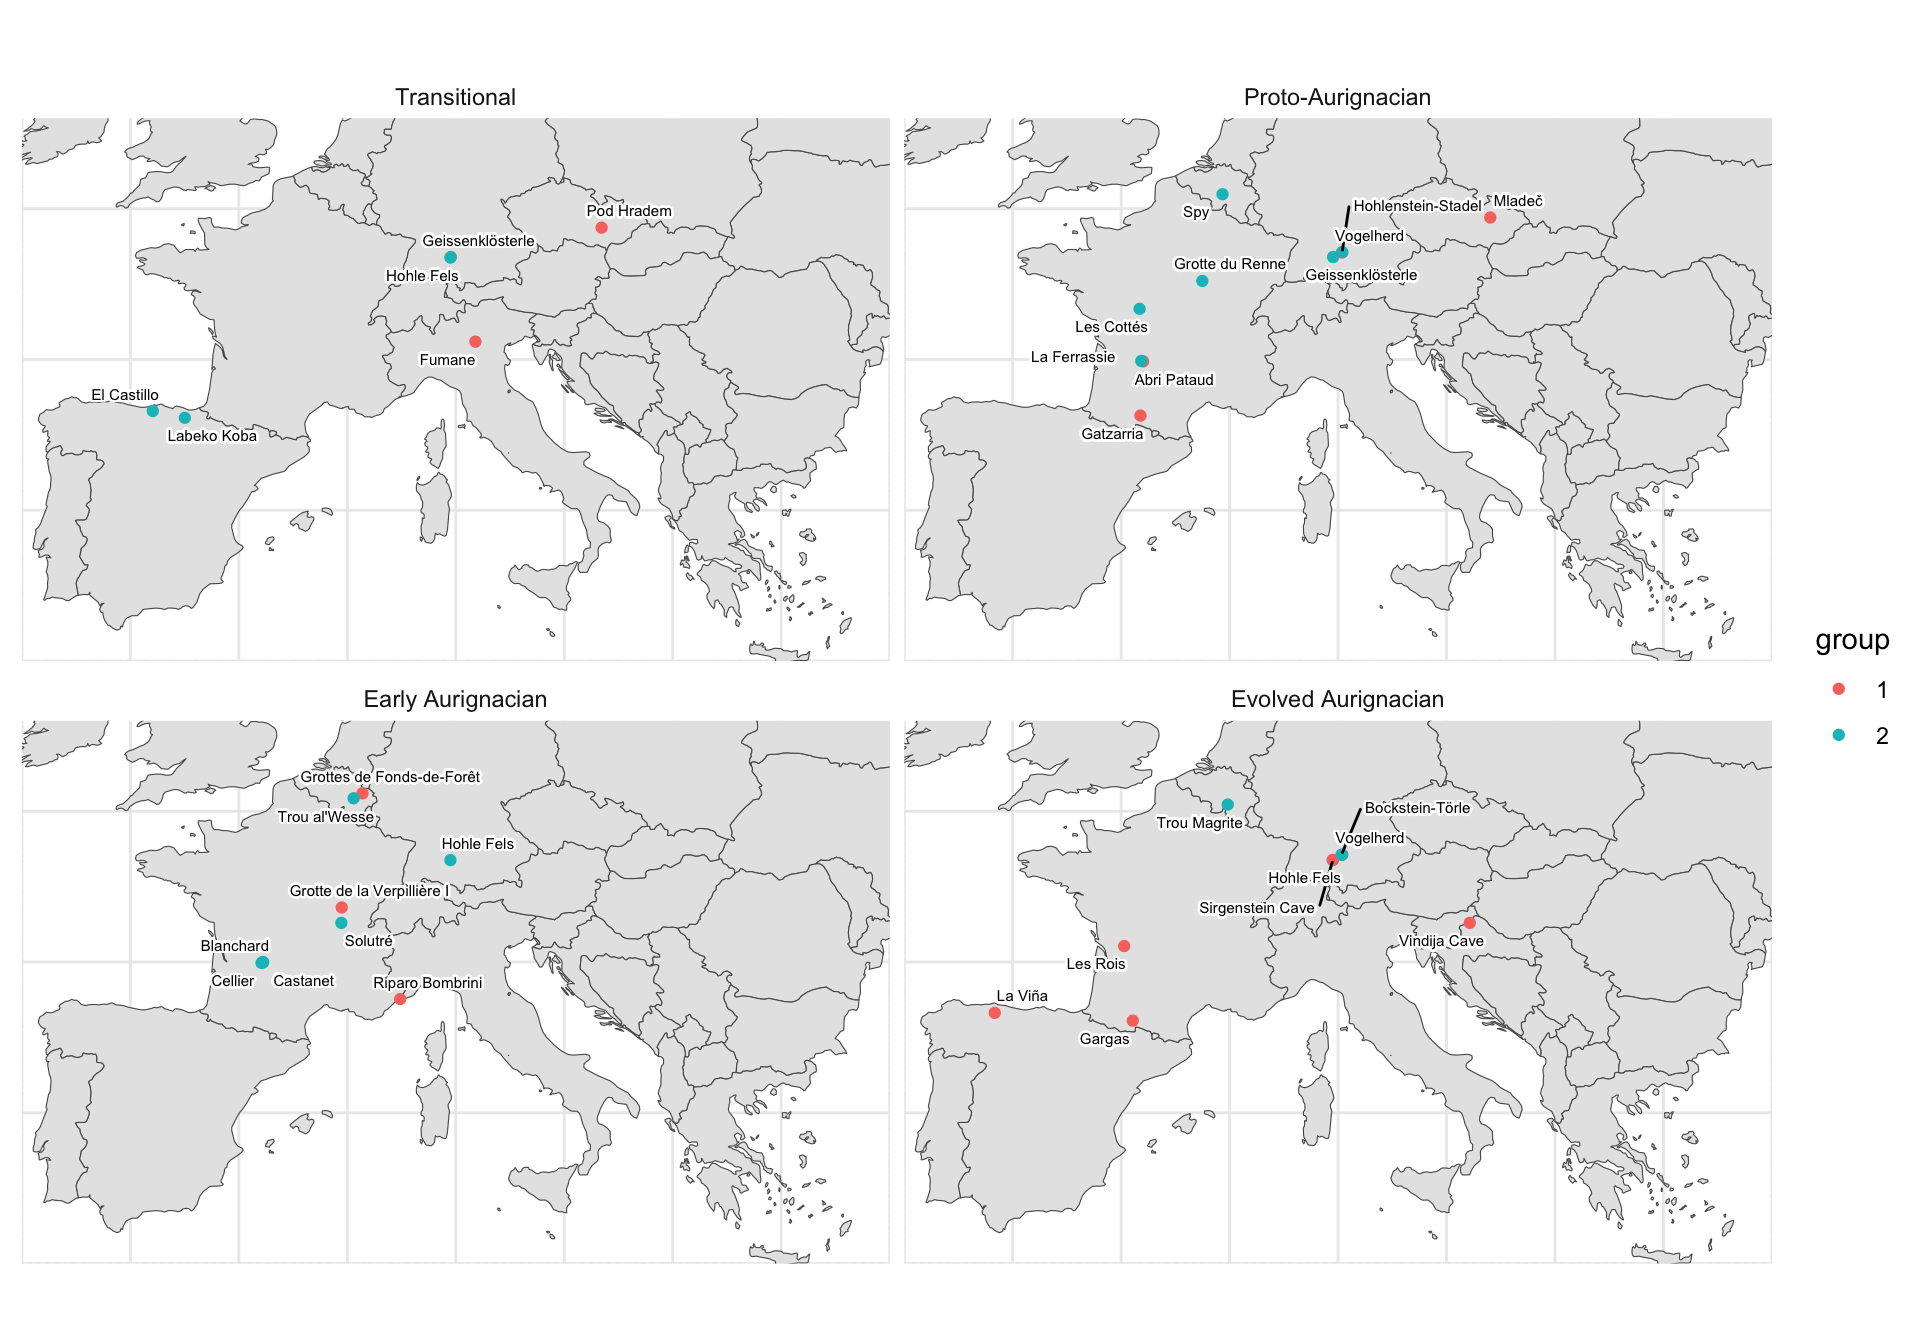
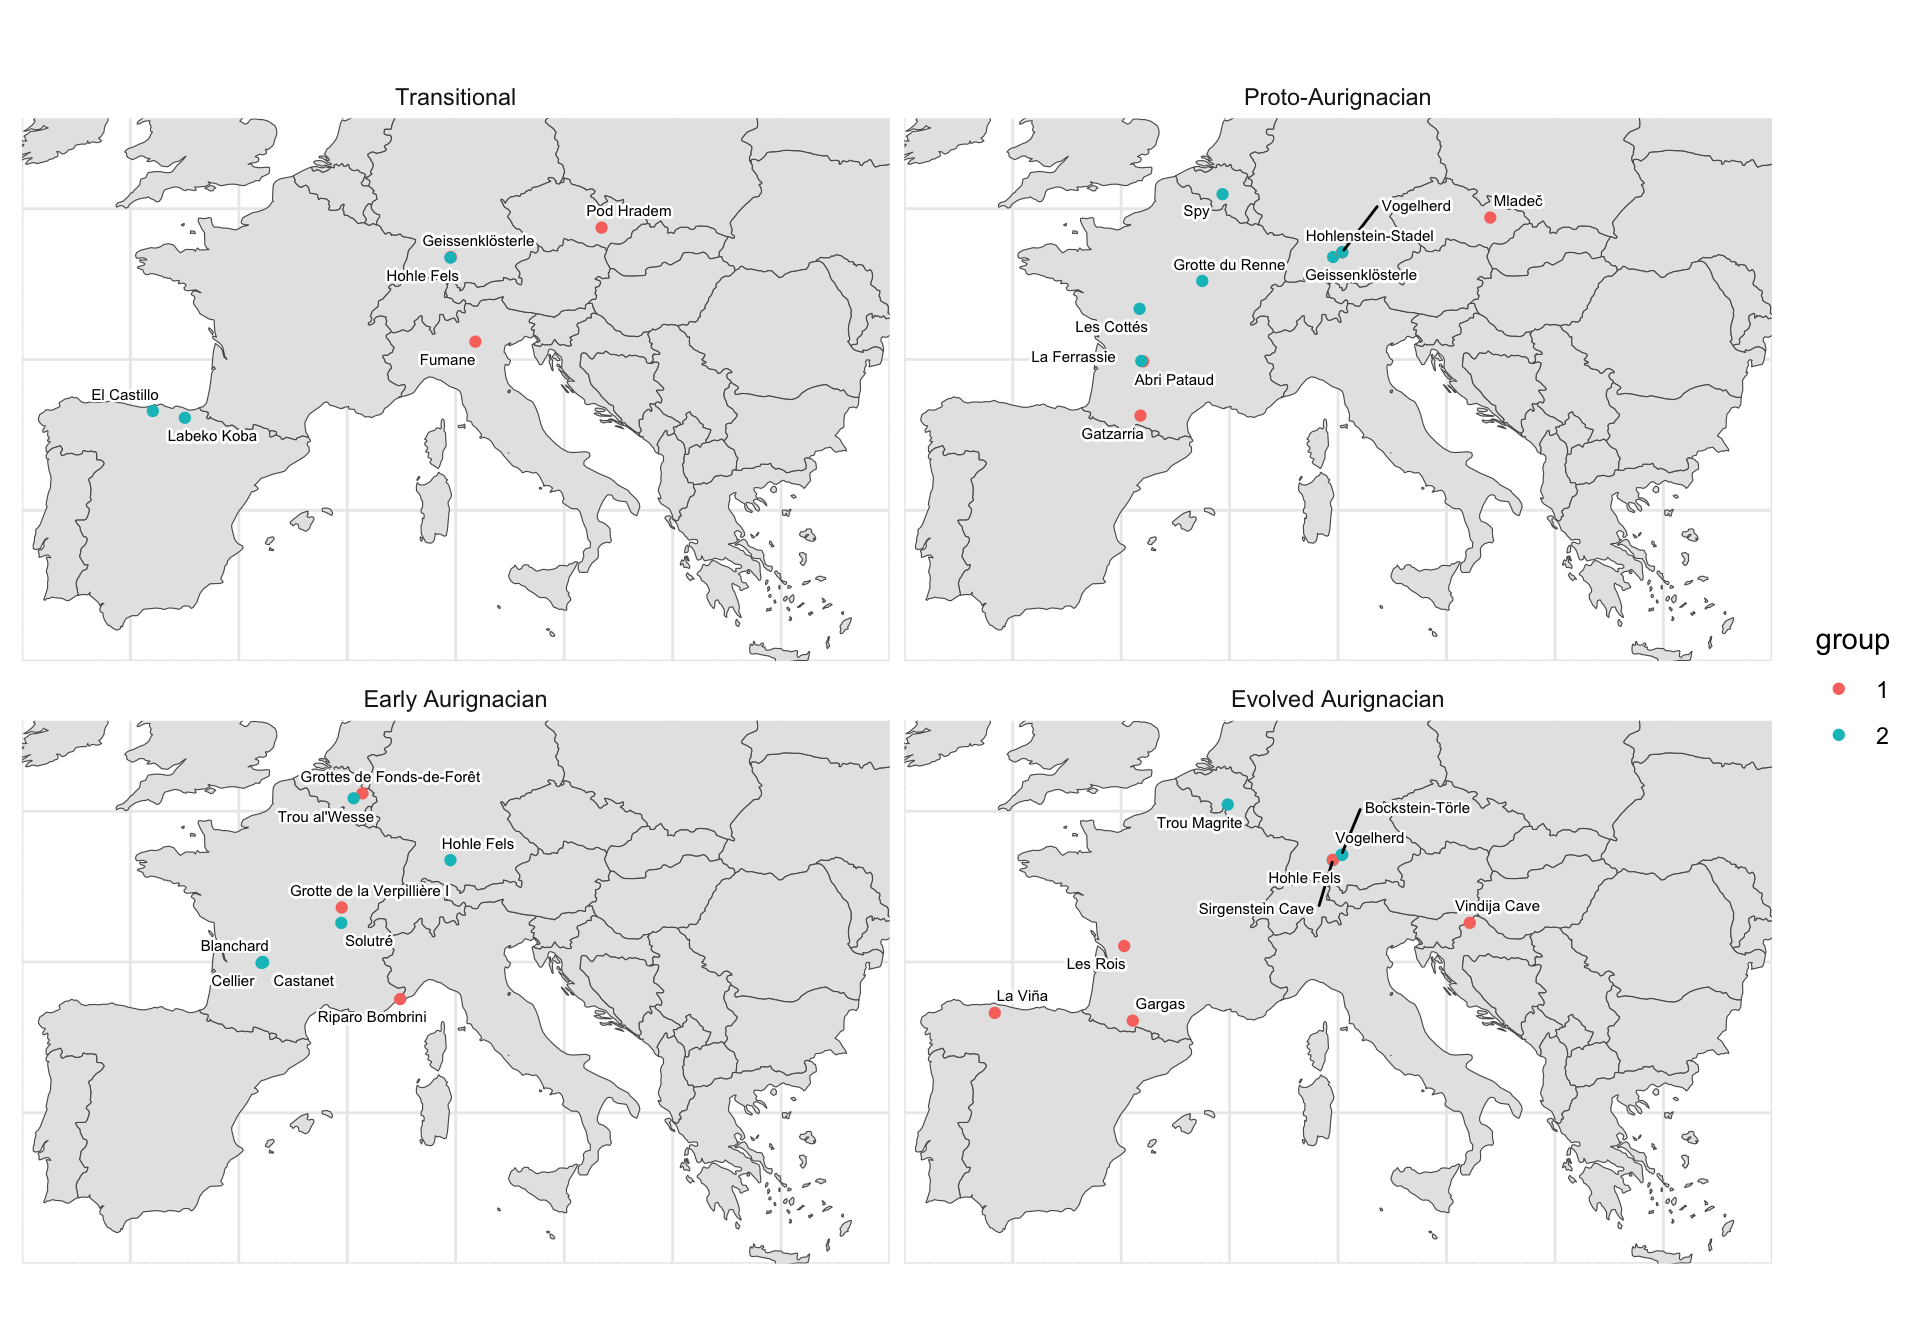
editing up to results: Cultural Group Strength

diff --git a/endofquarterpaper.html b/endofquarterpaper.html
@@ -221,91 +221,7 @@ Figure&nbsp;3: Network analysis of the data
 </div>
 </div>
 </div>
-<p>Network analysis shows similar groups to the ones identified in <a href="#fig-seriation" class="quarto-xref">Figure&nbsp;2</a>, but it also shows evolving inter-connectivity between groups. In the Transitional phase, the network analysis shows two clearly defined groups, one consisting of Geissenklösterle, Fumane, and Pod Hradem, and the other consisting of Hohle Fels, El Castillo, and Labeko Koba, with no connections between the groups. The Proto-Aurignacian phase also shows two clearly defined groups, one consisting of Geissenklösterle, Spy, Vogelherd, and Grotte du Renne, and the other consisting of Mladeč, Hohlenstein-Stadel, Gatzarria, and Abri Pataud. However, it also displays some sites that are less clearly connected, with La Ferrassie being squarely in between both groups with equal connections to both, and Les Cottés lacking a connection to any of the groups. The Early Aurignacian shows more strongly inter-connected groups - although the shape still suggests two main groups - with Grotte de la Verpillière I in particular having multiple strong connections to both of the groups. Lastly, the Evolved Aurignacian again shows two main groups, although group inner-connectivity has decreased, one consisting of Hohle Fels, Trou Magrite, Vogelherd, and Bockstein-Törle, and the other consisting of Gargas, La Viña, Sirgenstein Cave, Vindija Cave, and Les Rois. While inter-connectivity between groups is still present, with connections between Trou Magrite, Gargas, and Vindija Cave, and Bockstein-Törle and Gargas, the strength of inter-connectivity is weaker than in the Early Aurignacian.</p>
-<p>In identifying the groups, we referenced both the seriation and network analyses. The results of the above tests allowed us to find two main groups of sites within each phase, as shown in <a href="#tbl-group-table" class="quarto-xref">Table&nbsp;2</a>. The geographic distributions of the groups are shown in <a href="#fig-group-map" class="quarto-xref">Figure&nbsp;4</a>, and the sign makeup of each group is shown in <strong>?@fig-group-sign</strong>.</p>
-<div class="cell" data-tbl-cap-location="bottom">
-<div id="tbl-group-table" class="cell quarto-float anchored" data-tbl-cap-location="bottom">
-<figure class="quarto-float quarto-float-tbl figure">
-<div aria-describedby="tbl-group-table-caption-0ceaefa1-69ba-4598-a22c-09a6ac19f8ca">
-<div class="cell-output-display">
-<table class="do-not-create-environment cell table table-sm table-striped small">
-<colgroup>
-<col style="width: 15%">
-<col style="width: 4%">
-<col style="width: 79%">
-</colgroup>
-<thead>
-<tr class="header">
-<th style="text-align: left;">Time Period</th>
-<th style="text-align: right;">Group</th>
-<th style="text-align: left;">Site Names</th>
-</tr>
-</thead>
-<tbody>
-<tr class="odd">
-<td style="text-align: left;">Transitional</td>
-<td style="text-align: right;">1</td>
-<td style="text-align: left;">Pod Hradem, Fumane, Labeko Koba</td>
-</tr>
-<tr class="even">
-<td style="text-align: left;">Transitional</td>
-<td style="text-align: right;">2</td>
-<td style="text-align: left;">El Castillo, Hohle Fels, Geissenklösterle</td>
-</tr>
-<tr class="odd">
-<td style="text-align: left;">Proto-Aurignacian</td>
-<td style="text-align: right;">1</td>
-<td style="text-align: left;">Gatzarria, Hohlenstein-Stadel, Mladeč, Abri Pataud,</td>
-</tr>
-<tr class="even">
-<td style="text-align: left;">Proto-Aurignacian</td>
-<td style="text-align: right;">2</td>
-<td style="text-align: left;">Geissenklösterle, Grotte du Renne, Vogelherd, Spy, La Ferrassie, Les Cottés</td>
-</tr>
-<tr class="odd">
-<td style="text-align: left;">Early Aurignacian</td>
-<td style="text-align: right;">1</td>
-<td style="text-align: left;">Grottes de Fonds-de-Forêt, Riparo Bombrini, Grotte de la Verpillière I, Vindija Cave, Trou al’Wesse</td>
-</tr>
-<tr class="even">
-<td style="text-align: left;">Early Aurignacian</td>
-<td style="text-align: right;">2</td>
-<td style="text-align: left;">Hohle Fels, Solutré, Castanet, Cellier, Blanchard</td>
-</tr>
-<tr class="odd">
-<td style="text-align: left;">Evolved Aurignacian</td>
-<td style="text-align: right;">1</td>
-<td style="text-align: left;">Les Rois, Gargas, La Viña, Sirgenstein Cave</td>
-</tr>
-<tr class="even">
-<td style="text-align: left;">Evolved Aurignacian</td>
-<td style="text-align: right;">2</td>
-<td style="text-align: left;">Bockstein-Törle, Vogelherd, Hohle Fels, Trou Magrite</td>
-</tr>
-</tbody>
-</table>
-</div>
-</div>
-<figcaption class="quarto-float-caption-bottom quarto-float-caption quarto-float-tbl" id="tbl-group-table-caption-0ceaefa1-69ba-4598-a22c-09a6ac19f8ca">
-Table&nbsp;2: Table of the sites by group per phase
-</figcaption>
-</figure>
-</div>
-</div>
-<div class="cell">
-<div class="cell-output-display">
-<div id="fig-group-map" class="quarto-figure quarto-figure-center quarto-float anchored">
-<figure class="quarto-float quarto-float-fig figure">
-<div aria-describedby="fig-group-map-caption-0ceaefa1-69ba-4598-a22c-09a6ac19f8ca">
-<img src="endofquarterpaper_files/figure-html/fig-group-map-1.png" class="img-fluid figure-img" width="960">
-</div>
-<figcaption class="quarto-float-caption-bottom quarto-float-caption quarto-float-fig" id="fig-group-map-caption-0ceaefa1-69ba-4598-a22c-09a6ac19f8ca">
-Figure&nbsp;4: Map of sites faceted by time period and colored by group number
-</figcaption>
-</figure>
-</div>
-</div>
-</div>
+<p>The results of the network analysis supports the restricted-broad groupings identified in <a href="#fig-seriation" class="quarto-xref">Figure&nbsp;2</a>, and provides additional insights into the evolution of connectivity between groups. In the Transitional phase, the network analysis reveals two distinct and disconnected groups. The restricted group consists of Geissenklösterle, Fumane, and Pod Hradem, and the broad group consisting of Hohle Fels, El Castillo, and Labeko Koba, with no connections between the groups. The Proto-Aurignacian phase also shows two clearly defined groups, the broad group consisting of Geissenklösterle, Spy, Vogelherd, and Grotte du Renne, and the restricted group consisting of Mladeč, Hohlenstein-Stadel, Gatzarria, and Abri Pataud. However, it also displays some connectivity between the two groups of sites, with La Ferrassie connected to both groups. Les Cottés stands out with no connections to either group. The Early Aurignacian shows more strongly inter-connected groups – although the shape still suggests two main groups – with Grotte de la Verpillière I in particular having multiple strong connections to both groups. Lastly, the Evolved Aurignacian again shows two main groups, although intra-group connectivity has decreased, with the broad group consisting of Hohle Fels, Trou Magrite, Vogelherd, and Bockstein-Törle, and the restricted group consisting of Gargas, La Viña, Sirgenstein Cave, Vindija Cave, and Les Rois. As for the Early Aurignacian,inter-connectivity between groups continues to be evident in the Evolved Aurignacian, with connections between Trou Magrite, Gargas, and Vindija Cave, and Bockstein-Törle and Gargas, however the strength of inter-connectivity is weaker than in the Early Aurignacian.</p>
 </section>
 <section id="cultural-group-strength" class="level2">
 <h2 class="anchored" data-anchor-id="cultural-group-strength">Cultural Group Strength</h2>
@@ -353,7 +269,7 @@ Figure&nbsp;4: Map of sites faceted by time period and colored by group number
 </div>
 </div>
 <figcaption class="quarto-float-caption-bottom quarto-float-caption quarto-float-tbl" id="tbl-strength-table-caption-0ceaefa1-69ba-4598-a22c-09a6ac19f8ca">
-Table&nbsp;3: Table of the results per phase for the modularity test and perMANOVA
+Table&nbsp;2: Table of the results per phase for the modularity test and perMANOVA
 </figcaption>
 </figure>
 </div>
@@ -402,17 +318,32 @@ Table&nbsp;3: Table of the results per phase for the modularity test and perMANO
 </div>
 </div>
 <figcaption class="quarto-float-caption-bottom quarto-float-caption quarto-float-tbl" id="tbl-mantel-table-caption-0ceaefa1-69ba-4598-a22c-09a6ac19f8ca">
-Table&nbsp;4: Table of the results per phase for the Mantel test between a Jaccard matrix of sign type diversity and a geographic distance matrix
+Table&nbsp;3: Table of the results per phase for the Mantel test between a Jaccard matrix of sign type diversity and a geographic distance matrix
 </figcaption>
 </figure>
 </div>
 </div>
 <p>The relevance of the isolation-by-distance hypothesis also varies from period to period. The p score quantifies the correlation, with a score of 0.05 or lower meaning that there is a statistically significant relationship between sign type distribution and geographical distance. None of the periods meet that threshold, meaning that the isolation-by-distance hypothesis is not applicable to any of them. However, we still see changes in the p score between periods, suggesting a higher level of correlation with geographic distance in some, and a lower correlation in others. The Proto-Aurignacian period demonstrates the least amount of correlation (Mantel R = -0.188, p = 0.872), while the Early Aurignacian exhibits the highest amount of correlation (Mantel R = 0.259, p = 0.075).</p>
+<!-- BM: I reckon here might be the place to make some comments about geographic distribution of the groups and boundaries, and reference the map below -->
+<div class="cell">
+<div class="cell-output-display">
+<div id="fig-group-map" class="quarto-figure quarto-figure-center quarto-float anchored">
+<figure class="quarto-float quarto-float-fig figure">
+<div aria-describedby="fig-group-map-caption-0ceaefa1-69ba-4598-a22c-09a6ac19f8ca">
+<img src="endofquarterpaper_files/figure-html/fig-group-map-1.png" class="img-fluid figure-img" width="960">
+</div>
+<figcaption class="quarto-float-caption-bottom quarto-float-caption quarto-float-fig" id="fig-group-map-caption-0ceaefa1-69ba-4598-a22c-09a6ac19f8ca">
+Figure&nbsp;4: Map of sites faceted by time period and colored by group number
+</figcaption>
+</figure>
+</div>
+</div>
+</div>
 </section>
 </section>
 <section id="discussion" class="level1">
 <h1>Discussion</h1>
-<p>The first aim of our study was to determine how the grouping dynamics of geometric signs changed across the four phases of the Aurignacian, specifically in terms of diversity, size, connectivity, and boundaries. The results as displayed in <a href="#fig-seriation" class="quarto-xref">Figure&nbsp;2</a> show that each phase can be divided into two main cultural groups, with diversity serving as a major dividing factor, and that group size varied from phase to phase, with a large increase in between the Transitional phase and the Proto-Aurignacian. <a href="#fig-neighbor-net" class="quarto-xref">Figure&nbsp;3</a> shows that group inter-connectivity and inner-connectivity varies from phase to phase, with weak inner group connections and no between-group connections in the Transitional phase, to stronger inner connections and interconnections starting to form in the Proto-Aurignacian, to extremely strong connections (both between and within groups) in the Early Aurignacian, to weaker connections in the Evolved Aurignacian. The modularity tests, as shown in <a href="#tbl-strength-table" class="quarto-xref">Table&nbsp;3</a>, tell us that the groupings are strongest in the Transitional period and weakest in the Early Aurignacian, and the perMANOVA tests tell us that the Transitional period experiences the highest level of difference between groups, while the Early Aurignacian experiences the least. The Mantel tests, as shown in <a href="#tbl-mantel-table" class="quarto-xref">Table&nbsp;4</a>, tell us that the sign distribution in the Proto-Aurignacian experiences the lowest correlation with geographic distance, while the Early Aurignacian experiences the highest correlation.</p>
+<p>The first aim of our study was to determine how the grouping dynamics of geometric signs changed across the four phases of the Aurignacian, specifically in terms of diversity, size, connectivity, and boundaries. The results as displayed in <a href="#fig-seriation" class="quarto-xref">Figure&nbsp;2</a> show that each phase can be divided into two main cultural groups, with diversity serving as a major dividing factor, and that group size varied from phase to phase, with a large increase in between the Transitional phase and the Proto-Aurignacian. <a href="#fig-neighbor-net" class="quarto-xref">Figure&nbsp;3</a> shows that group inter-connectivity and inner-connectivity varies from phase to phase, with weak inner group connections and no between-group connections in the Transitional phase, to stronger inner connections and interconnections starting to form in the Proto-Aurignacian, to extremely strong connections (both between and within groups) in the Early Aurignacian, to weaker connections in the Evolved Aurignacian. The modularity tests, as shown in <a href="#tbl-strength-table" class="quarto-xref">Table&nbsp;2</a>, tell us that the groupings are strongest in the Transitional period and weakest in the Early Aurignacian, and the perMANOVA tests tell us that the Transitional period experiences the highest level of difference between groups, while the Early Aurignacian experiences the least. The Mantel tests, as shown in <a href="#tbl-mantel-table" class="quarto-xref">Table&nbsp;3</a>, tell us that the sign distribution in the Proto-Aurignacian experiences the lowest correlation with geographic distance, while the Early Aurignacian experiences the highest correlation.</p>
 <p>The second aim of our study was to determine what these patterns tell us about dynamics of social organization throughout the Aurignacian. The results suggest that the Transitional phase was sparsely populated, with minimal interaction between loosely connected groups. For the Proto-Aurignacian, the results suggest a large expansion in social activity, as well as strongly inner-connected groups with some inter-connectivity present, with geographic distance having the least influence on sign distribution. The Early Aurignacian experiences a large surge in inter-connectivity, as well as inner-connectivity strength, with a great deal of connection between groups and an increase in the correlation with geographic distance. The Evolved Aurignacian experiences a decline in connection strength, although it maintains degrees of inter-connectivity.</p>
 <p>These results are supported by the existing data on the environmental and biological change established during these phases. <span class="citation" data-cites="Shao_Wegener_Klein_Schmidt_Weniger_2024">Shao et al. (<a href="#ref-Shao_Wegener_Klein_Schmidt_Weniger_2024" role="doc-biblioref">2024</a>)</span> tells us that from 45 - 43.25 k BP, the population density in Europe was extremely low, due to the unfavorable environmental conditions of 1Greenland Stadial 12 (44 k BP) and the slow westward expansion of early modern humans, before being followed by rapid expansion from 43.25 - 41 k BP, with the maximum extent of Aur-P1 settlement being reached around 41 k BP. This could provide an answer as to why the Transitional phase appears sparsely populated with little to no inter-connectivity, and the Proto-Aurignacian appears to be more densely populated with stronger cultural groups. Additionally <span class="citation" data-cites="Banks_dErrico_Zilhao_2013">Banks, d’Errico, and Zilhão (<a href="#ref-Banks_dErrico_Zilhao_2013" role="doc-biblioref">2013</a>)</span> use eco-cultural niche modeling to show that the Heinrich Stadial 4 at the very beginning of the Early Aurignacian resulted in an expansion into new environmental niches, which they hypothesize was associated with expansion of social networks both within and between populations. This could be a reason as to why we see a large increase in both inter-connectivity and inner-connectivity strength in the Early Aurignacian, as well as the increased correlation with geographic distance. Lastly, <span class="citation" data-cites="Shao_Limberg_Klein_Wegener_Schmidt_Weniger_Hense_Rostami_2021">Shao et al. (<a href="#ref-Shao_Limberg_Klein_Wegener_Schmidt_Weniger_Hense_Rostami_2021" role="doc-biblioref">2021</a>)</span> developed a human-existence probability model for the Aurignacian, finding an expanded, more dispersed settlement area for Aur-P2, theorizing that the environmental changes of HS4 lead to humans better adapted to survive in a broader range of climate conditions. <span class="citation" data-cites="Shao_Wegener_Klein_Schmidt_Weniger_2024">Shao et al. (<a href="#ref-Shao_Wegener_Klein_Schmidt_Weniger_2024" role="doc-biblioref">2024</a>)</span> also find an increase in expansion marking the beginning of Aur-P2. This could explain why we see weaker connections in the Evolved Aurignacian, as expansion results in less interconnection.</p>
 </section>
